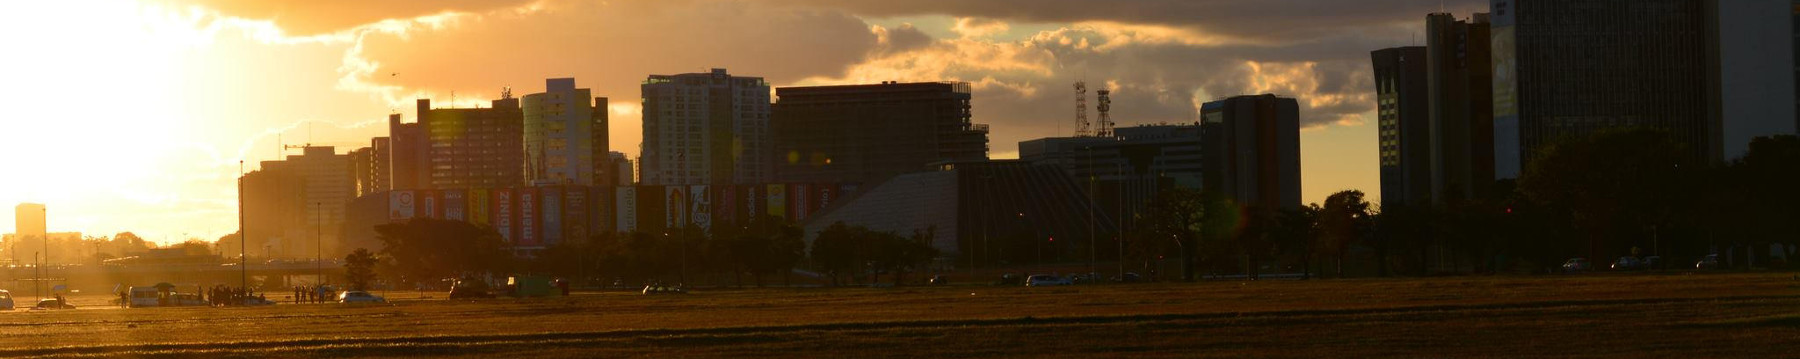
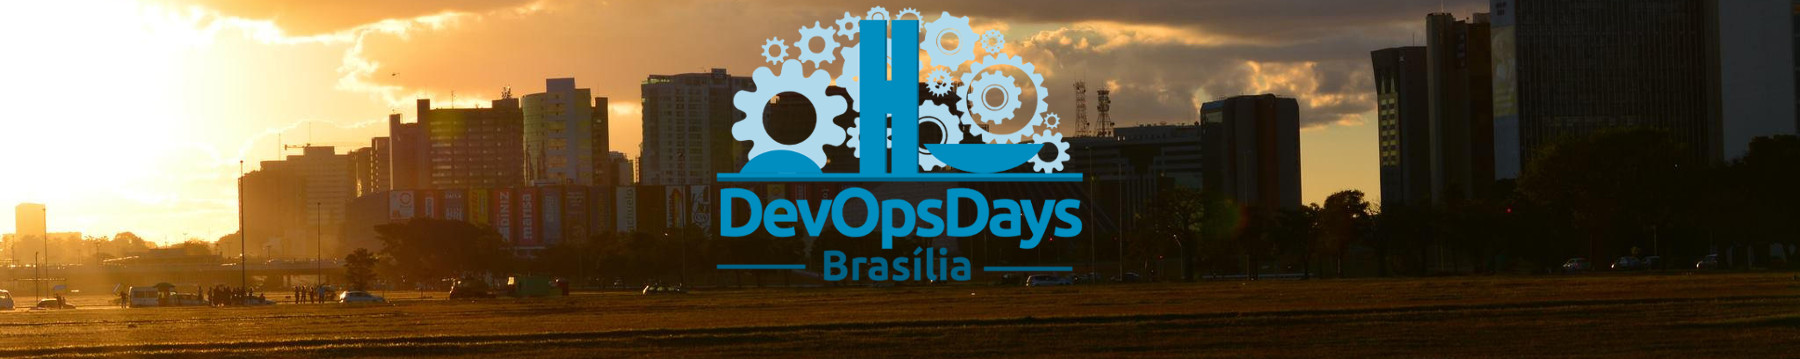
[2017-Brasilia] update location data (#2668)
* Update masthead_background with logo

* Update location data

* Add community sponsors

Changed region(s): [[0.3733, 0.0, 0.6222, 0.7967]]

diff --git a/content/events/2017-brasilia/location.md b/content/events/2017-brasilia/location.md
@@ -6,5 +6,27 @@ Description = "Location for devopsdays Brasilia 2017"
 
 Watch this space for information about the venue including address, map/direction, parking/transit, and any hotel details.
 
-<!-- Uncomment this only if you have set the coordinates for your location in the config yaml. Get Latitude and Longitude of a Point: http://itouchmap.com/latlong.html -->
-<!-- {{< event_map >}} -->
+
+## Venue
+
+***Convention Center Grand Mercure Hotel***
+
+Convention Center address:
+
+- Centro de Convenções  
+  GRAND MERCURE Brasilia  
+  Eixo Monumental, SHN quadra 5, bloco G,  
+  Asa Norte, Brasília/DF
+
+The Convention Center is located in Asa Norte, Plano Piloto at Brasília/DF.
+
+And what they have nearby:
+
+  - Hotels (in Setor Hoteleiro Norte/SHN neiborhood)
+  - Restaurants, malls and shops (Setor Comercial Norte/SCN)
+  - City Sightseeing (Parque da Cidade, Torre de TV, Feira de Artesanato/Feira da Torre, Esplanada dos Ministérios, Praça dos Três Poderes etc)
+  - Hospitals (Setor Médico Hospitalar Norte/SMHN)
+
+---
+
+{{< event_map >}}

diff --git a/content/events/2017-brasilia/index.md b/content/events/2017-brasilia/index.md
@@ -18,14 +18,14 @@ Description = "devopsdays Brasilia 2017"
   </div>
 </div>
 
-<!-- <div class = "row">
+<div class = "row">
   <div class = "col-md-2">
     <strong>Location</strong>
   </div>
   <div class = "col-md-8">
     {{< event_location >}}
   </div>
-</div> -->
+</div>
 
 <!-- <div class = "row">
   <div class = "col-md-2">
